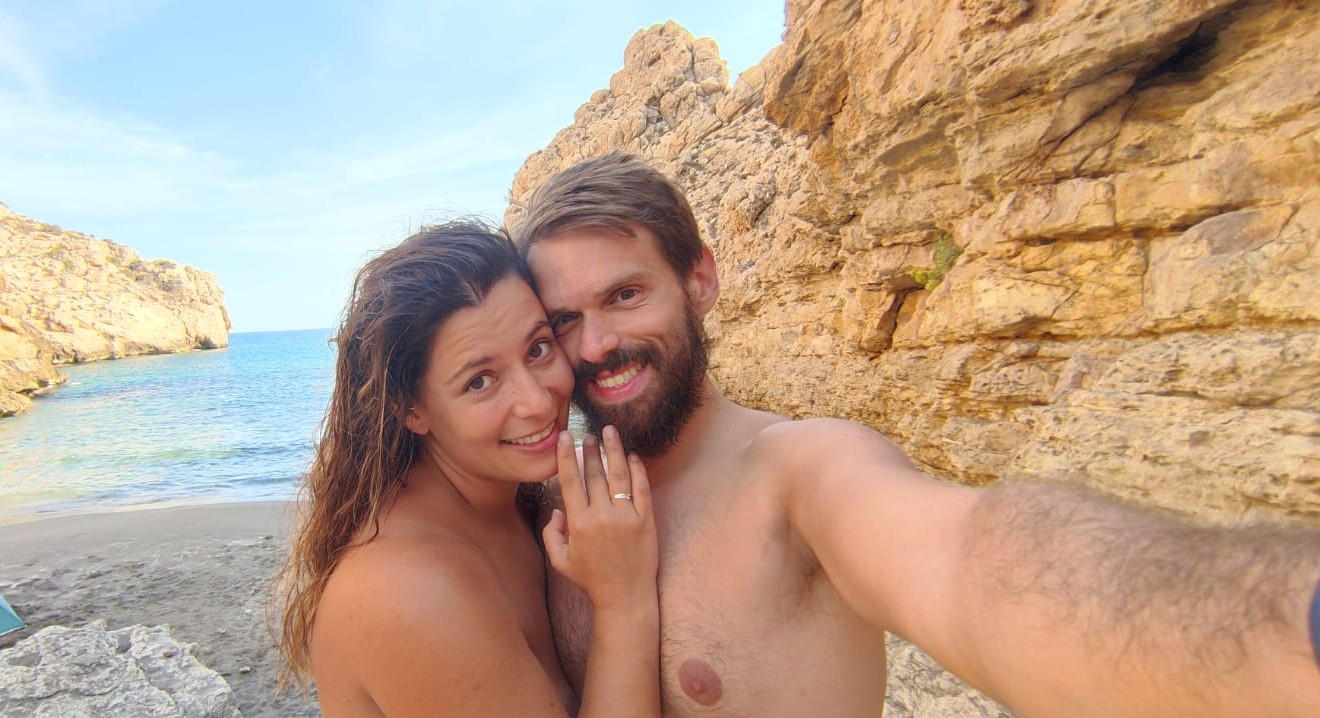
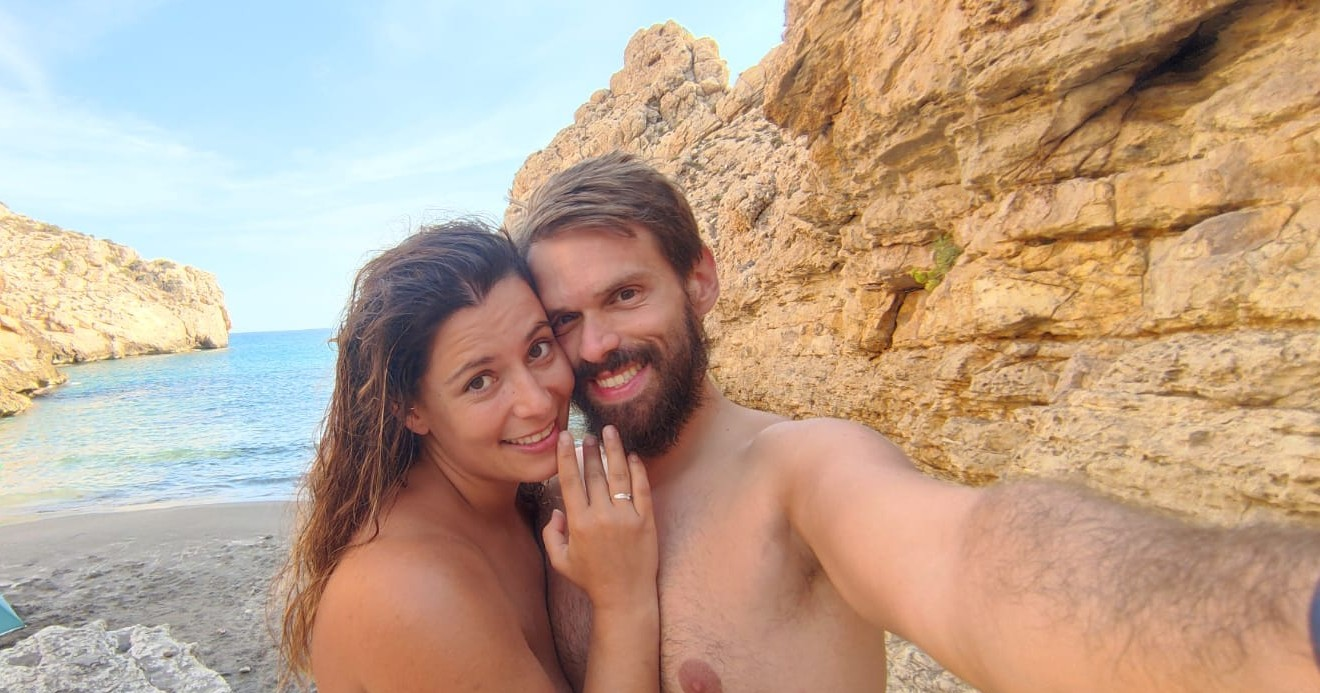
Add nosotros popups in aux & update pedida almeria image

diff --git a/aux.html b/aux.html
@@ -59,6 +59,123 @@
     <img src="images/playa_barrosa.png" alt="Playa">
 </div>
 
+<!-- Second -->
+			<section id="second" class="main">
+				<header>
+					<div class="container">
+						<h2>En cada historia no hay verdad ni mentira; todo es según el color del cristal con que se mira. </br >
+							Del mismo modo, hemos preferido proporcionaros las dos versiones de nuestra historia, bajo la mirada de cada uno.</h2>
+					</div>
+				</header>
+
+				<div class="content dark style2">
+					<div class="container">
+						<div class="row">
+							<div class="col-6 col-12-narrow">
+									<section>
+										<div class="col-6"><a href="#" class="image fit"><img src="images/pic01.jpg" alt="" /></a></div>
+										<h3 class="nosotros-title">Nuestra historia según Paloma</h3>
+										<footer>
+											 <button id="abrirPopup1" class="boton-popup">Paloma</button>
+											 
+											<dialog id="miPopup1">
+													<button class="btn-cerrar" id="cerrarPopup1">X</button>
+													<h2>Paloma</h2>
+													<p>Gravida dis placerat lectus ante vel nunc euismod est turpis sodales. Diam
+														tempor dui lacinia eget ornare varius gravida. Gravida dis placerat lectus ante
+														vel nunc euismod est turpis sodales. Diam tempor dui lacinia accumsan vivamus
+														augue cubilia vivamus nisi eu eget ornare varius gravida euismod.  Gravida dis
+														lorem ipsum dolor placerat magna tempus feugiat.</p>
+													<p>Lectus ante vel nunc euismod est turpis sodales. Diam tempor dui lacinia
+														accumsan vivamus augue cubilia vivamus nisi eu eget ornare varius gravida dolore
+														euismod lorem ipsum dolor sit amet consequat eget ornare varius gravida euismod.
+														Gravida dis lorem ipsum dolor placerat magna tempus feugiat magna tempus lorem.</p>
+													<p>Lectus ante vel nunc euismod est turpis sodales. Diam tempor dui lacinia
+														accumsan vivamus augue cubilia.</p>
+													<p>Placerat lectus ante vel nunc euismod est turpis sodales. Diam tempor dui
+														lacinia eget ornare varius gravida. Gravida dis placerat lectus ante vel nunc
+														euismod est turpis sodales. Diam tempor dui lacinia accumsan vivamus augue
+														cubilia vivamus nisi eu eget ornare varius gravida euismod.  Gravida dis
+														lorem ipsum dolor placerat magna tempus feugiat. Lectus ante vel nunc euismod
+														est turpis sodales. Diam tempor dui lacinia dolore.</p>
+													<p>Accumsan vivamus augue cubilia vivamus nisi eu eget ornare varius gravida
+														dolore euismod lorem ipsum dolor sit amet conseismod lorem ipsum dolor sit amet
+														consequat lorem ipsum consequat feugiat sed tempus euismod feugiat veroeros.</p>
+													<p>Lectus ante vel nunc euismod est turpis sodales. Diam tempor dui lacinia
+														accumsan vivamus augue cubilia vivamus nisi eu eget ornare varius gravida dolore
+														euismod lorem ipsum dolor sit amet consequat eget ornare varius gravida euismod.
+														Gravida dis lorem ipsum dolor placerat magna tempus feugiat magna tempus lorem.</p>
+											</dialog>
+
+											<script>
+													const abrirPopupBtn1 = document.getElementById('abrirPopup1');
+													const cerrarPopupBtn1 = document.getElementById('cerrarPopup1');
+													const miPopup1 = document.getElementById('miPopup1');
+
+													abrirPopupBtn1.addEventListener('click', () => {
+															miPopup1.showModal();
+													});
+													cerrarPopupBtn1.addEventListener('click', () => {
+															miPopup1.close();
+													});
+											</script>
+										</footer>
+									</section>
+							</div>
+							<div class="col-6 col-12-narrow">
+									<section>
+										<div class="col-6"><a href="#" class="image fit"><img src="images/pic01.jpg" alt="" /></a></div>
+										<h3 class="nosotros-title">Nuestra historia según Ricardo</h3>
+										<footer>
+											 <button id="abrirPopup2" class="boton-popup">Ricardo</button>
+
+											<dialog id="miPopup2">
+													<button class="btn-cerrar" id="cerrarPopup2">X</button>
+													<h2>Ricardo</h2>
+													<p>Recuerdo tu voz en el andén. Aquel acento distinto y ese pelo negro tan brillante. Quien me diría que días más tarde acabaría teniendo la increíble suerte de conocerte. Nos conocimos por una de esas extrañas carambolas del destino donde dos personas se encuentran sin ser conscientes de que esa casualidad va a cambiarles la vida.</p>
+													<p>Recuerdo que lo primero que pensé fue “Que chica más simpática, acabamos de conocernos y como si fuéramos viejos amigos”
+														Lo que de verdad me enamoró fue tu profunda mirada, la forma tan suave en que me hablabas y lo cómodo que me encontraba a tu lado sin saber el porqué.</p>
+
+													<p>Seguimos coincidiendo y cada día tenía más claro que mi corazón era tuyo. Aquella bendita feria, cuando al fin nos besamos arrancó lo mejor que me ha pasado en la vida. Parecía cosa del destino que uno de mis apellidos fuese el nombre de tu pueblo.</p>
+
+													<p>Tuvimos que afrontar pronto periodos de distancia, pero lo hicimos juntos, sin dudas. Una frase nos dió fuerzas en esos momentos “Escribe principio donde pone fin”. Y en cuanto pudimos, volvimos a unirnos para nunca más estar tanto tiempo distanciados.</p>
+
+													<p>Llegó la oportunidad de Sevilla y no dudaste en dejar todo lo que conocías para empezar en una nueva ciudad juntos. Nuestro primer hogar. Ilusionados comenzamos a explorar juntos una ciudad que aún tiene mucho reservado para nosotros.</p>
+
+													<p>Conseguimos adquirir una buena relación con el deporte para mejorar nuestra salud que era una de nuestras asignaturas pendientes. Descubrimos disciplinas como el Crossfit o las OCR que nos han apasionado por completo. Hasta tal punto que comenzamos a competir y no nos planteamos otra forma de vivir el deporte. Han sido muchísimas carreras las que hemos disfrutado juntos y donde hemos podido aprender y mejorar. 
+														Me siento tremendamente orgulloso de todo lo que hemos conseguido.</p>
+
+													<p>Hemos afrontado mil adversidades, cambios profesionales, etapas de formación, mudanzas y hasta sobrevivido a un confinamiento de más de tres meses. Pero cada paso que hemos dado juntos nos ha llevado a un lugar mejor.</p>
+
+													<p>Juntos hemos superado todos y cada uno de los reveses que nos ha dado la vida. Aferrándonos aún más fuerte si cabe, el uno al otro. No concibo ningún apoyo capaz de sostenerme en los malos momentos que no sea el tuyo.</p>
+
+													<p>La música siempre ha formado parte de nuestra historia. Desde aquella primeras conversaciones sobre qué grupos nos gustaban o cual era el último descubrimiento musical que habíamos hecho. Hemos disfrutado de conciertos y de cientos de horas de coche cantando juntos y compartiendo miradas cómplices.</p>
+
+													<p>Otra pasión que compartimos, y que es únicamente responsabilidad tuya el haber conseguido contagiarme, el carnaval. Siempre he disfrutado disfrazándome, pero junto a ti la experiencia toma una nueva dimensión. Yo veía ocasionalmente algún pedacito de actuación del carnaval de cadiz pero poco más. Junto a ti me he convertido en un completo aficionado. La experiencia de vivir desde dentro los carnavales en Toro a tu lado, es otro de los tesoros que guardo con tesón.</p>
+
+													<p>Estoy convencido de que todo esto no ha hecho más que empezar y lo mejor está por venir.</p>
+											</dialog>
+
+											<script>
+													const abrirPopupBtn2 = document.getElementById('abrirPopup2');
+													const cerrarPopupBtn2 = document.getElementById('cerrarPopup2');
+													const miPopup2 = document.getElementById('miPopup2');
+
+													abrirPopupBtn2.addEventListener('click', () => {
+															miPopup2.showModal();
+													});
+													cerrarPopupBtn2.addEventListener('click', () => {
+															miPopup2.close();
+													});
+											</script>
+										</footer>
+									</section>
+							</div>
+						</div>
+					</div>
+				</div>
+			</section>
+			
 		<!-- First -->
 			<section id="first" class="main">
 				<header>

diff --git a/assets/css/main.css b/assets/css/main.css
@@ -2436,6 +2436,48 @@ input, select, textarea {
 		width: 70%;
 	}
 
+	h3.nosotros-title {
+		margin-top: 1em;
+		justify-self: center;
+	}
+
+/* Estilos del Pop-up*/
+dialog {
+  padding: 3em;
+  border-radius: 10px;
+  border: none;
+  box-shadow: 0 5px 15px rgba(0, 0, 0, 0.3);
+  width: 80%;
+  text-align: justify;
+}
+
+dialog::backdrop {
+  background-color: rgba(0, 0, 0, 0.5); /* Fondo oscuro detrás del popup */
+}
+
+dialog h2 {
+	color: #000 !important;
+}
+
+.boton-popup {
+  display: block;
+  justify-self: center;
+  padding: 1em 5em;
+  font-size: 1em;
+  font-weight: 800;
+}
+
+.btn-cerrar {
+	float: right;
+	padding: 0;
+	color: #000 !important;
+	position: fixed;
+	top: 2em;
+	right: 9.5em;
+	font-size: 1em;
+	font-weight: 800;
+}
+
 /* Wide */
 
 	@media screen and (max-width: 1680px) {
@@ -2678,6 +2720,16 @@ input, select, textarea {
 			width: 6em !important;
 			height: 5em !important;
 			line-height: 5em !important;
+		}
+
+		dialog {
+			width: 90%;
+			padding: 2.5em;
+		}
+
+		.btn-cerrar {
+			top: 2em;
+			right: 2em;
 		}
 	}
 
